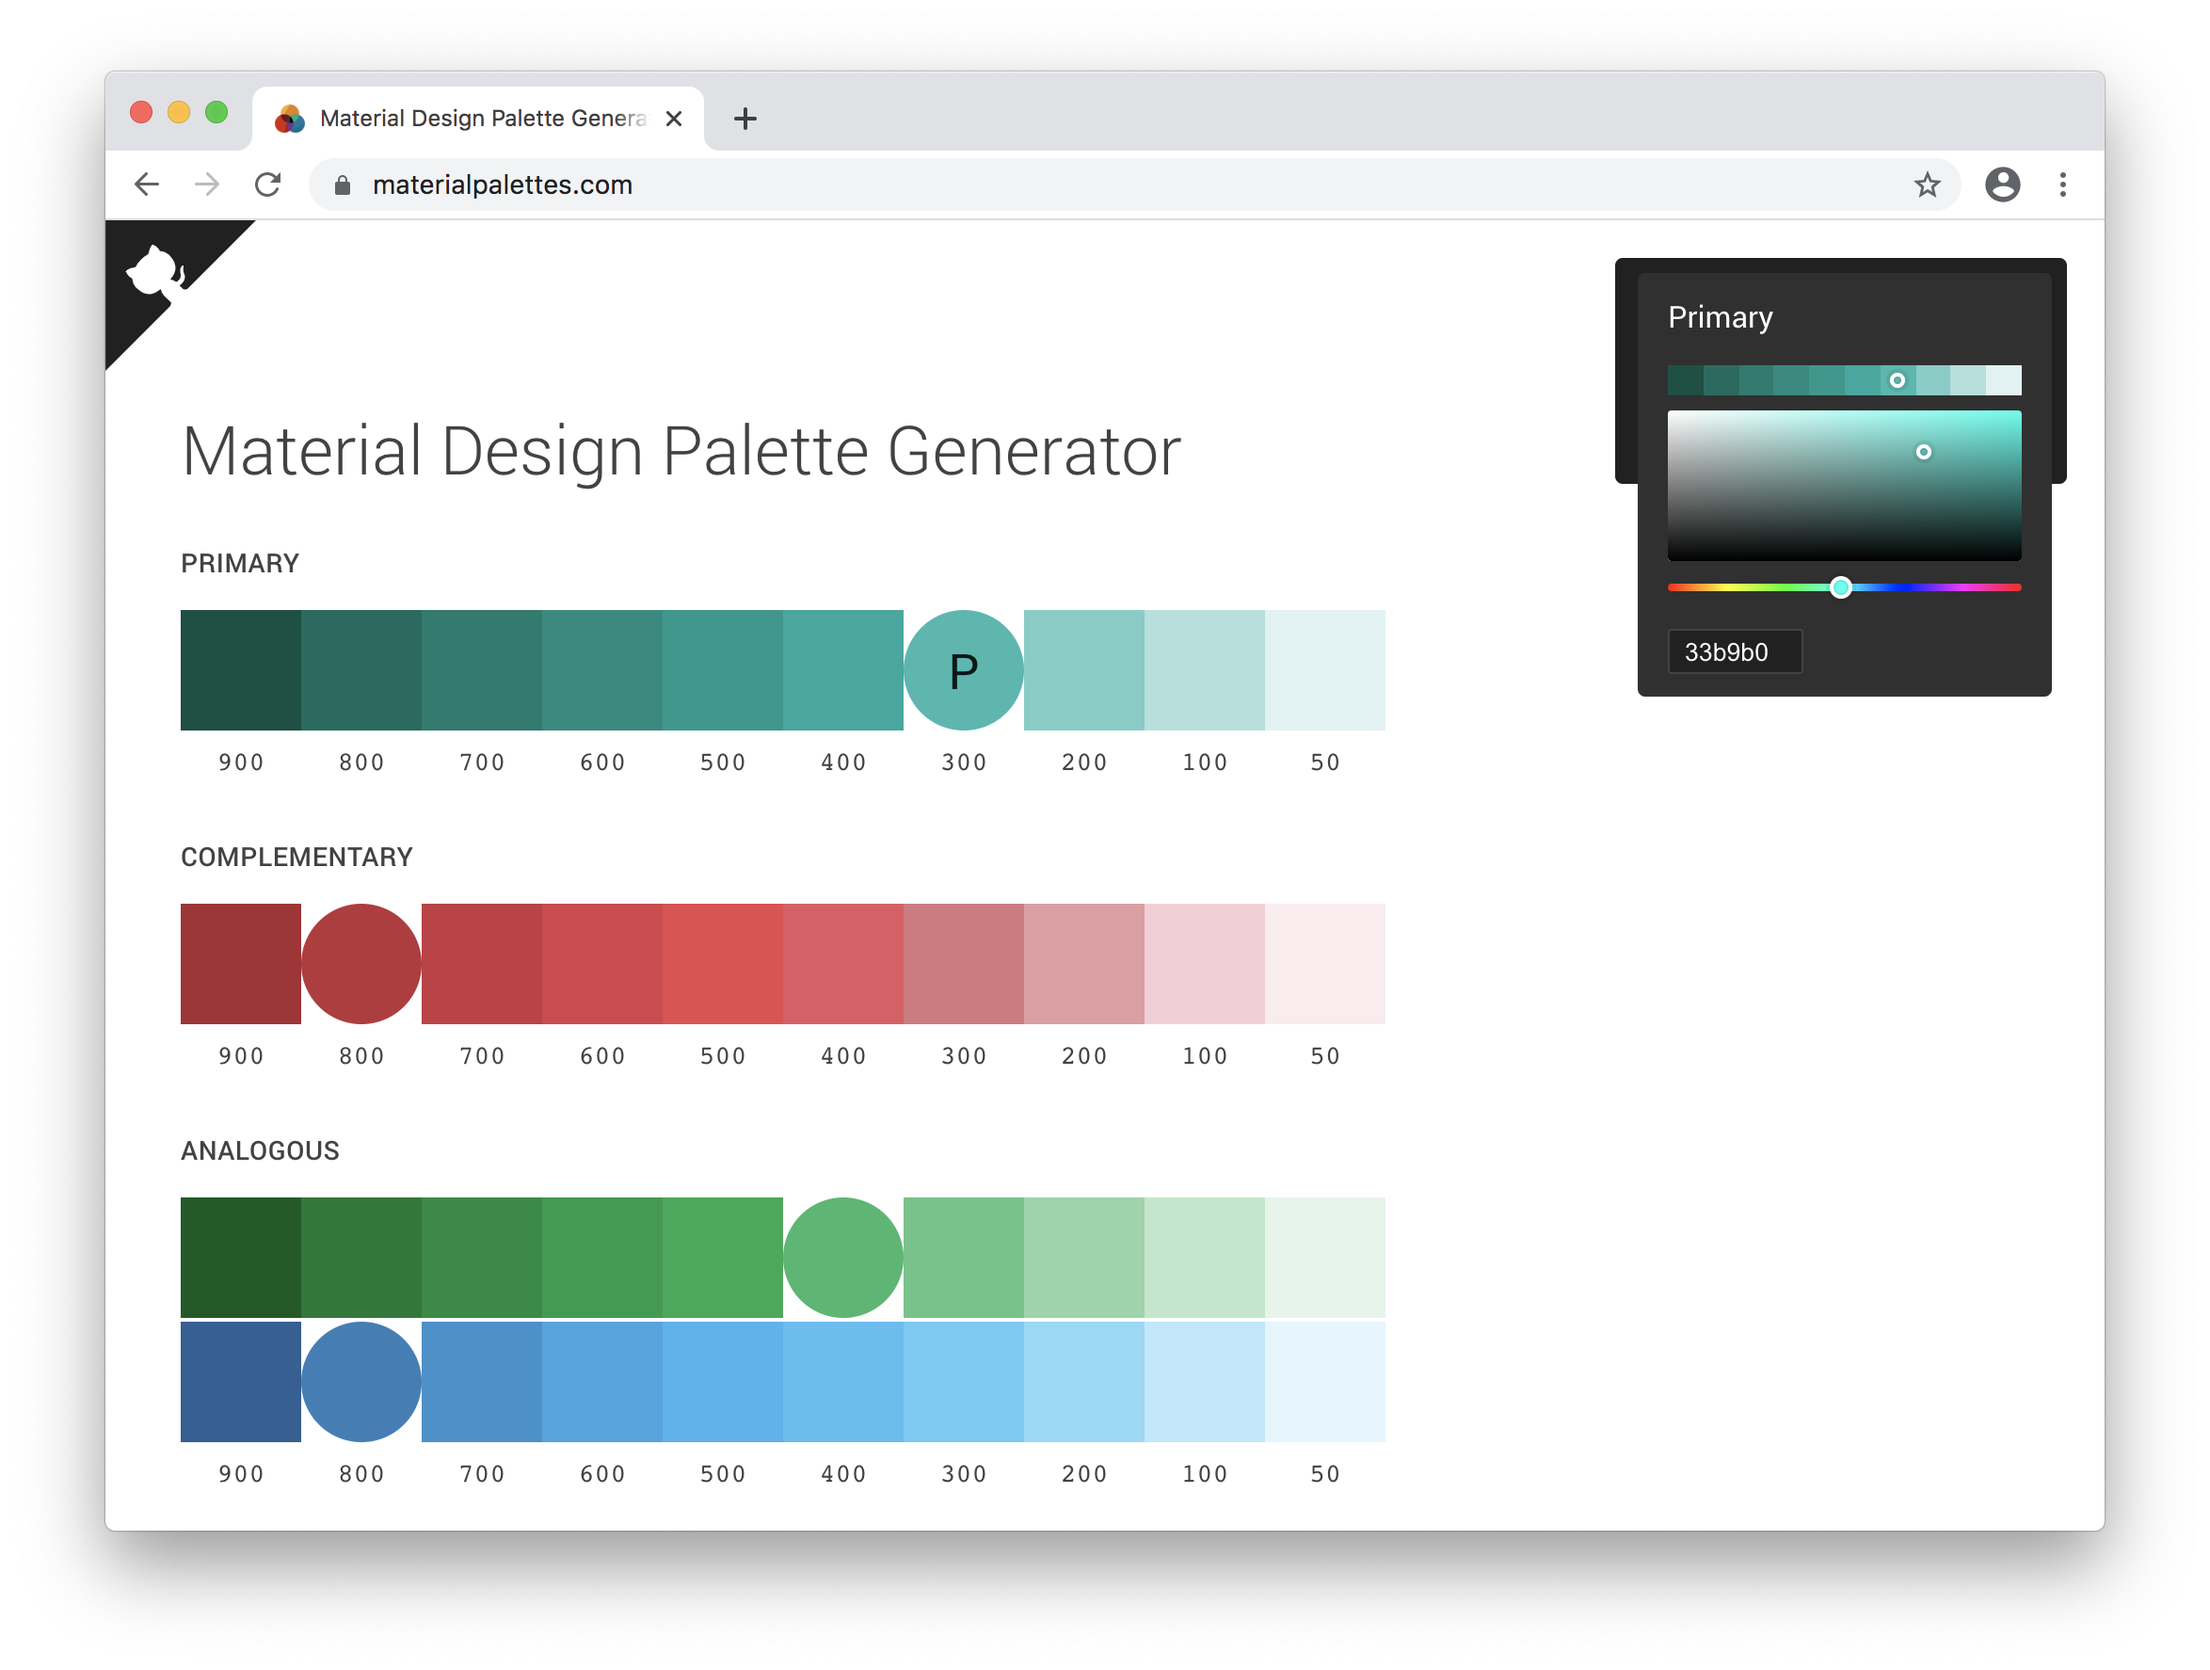
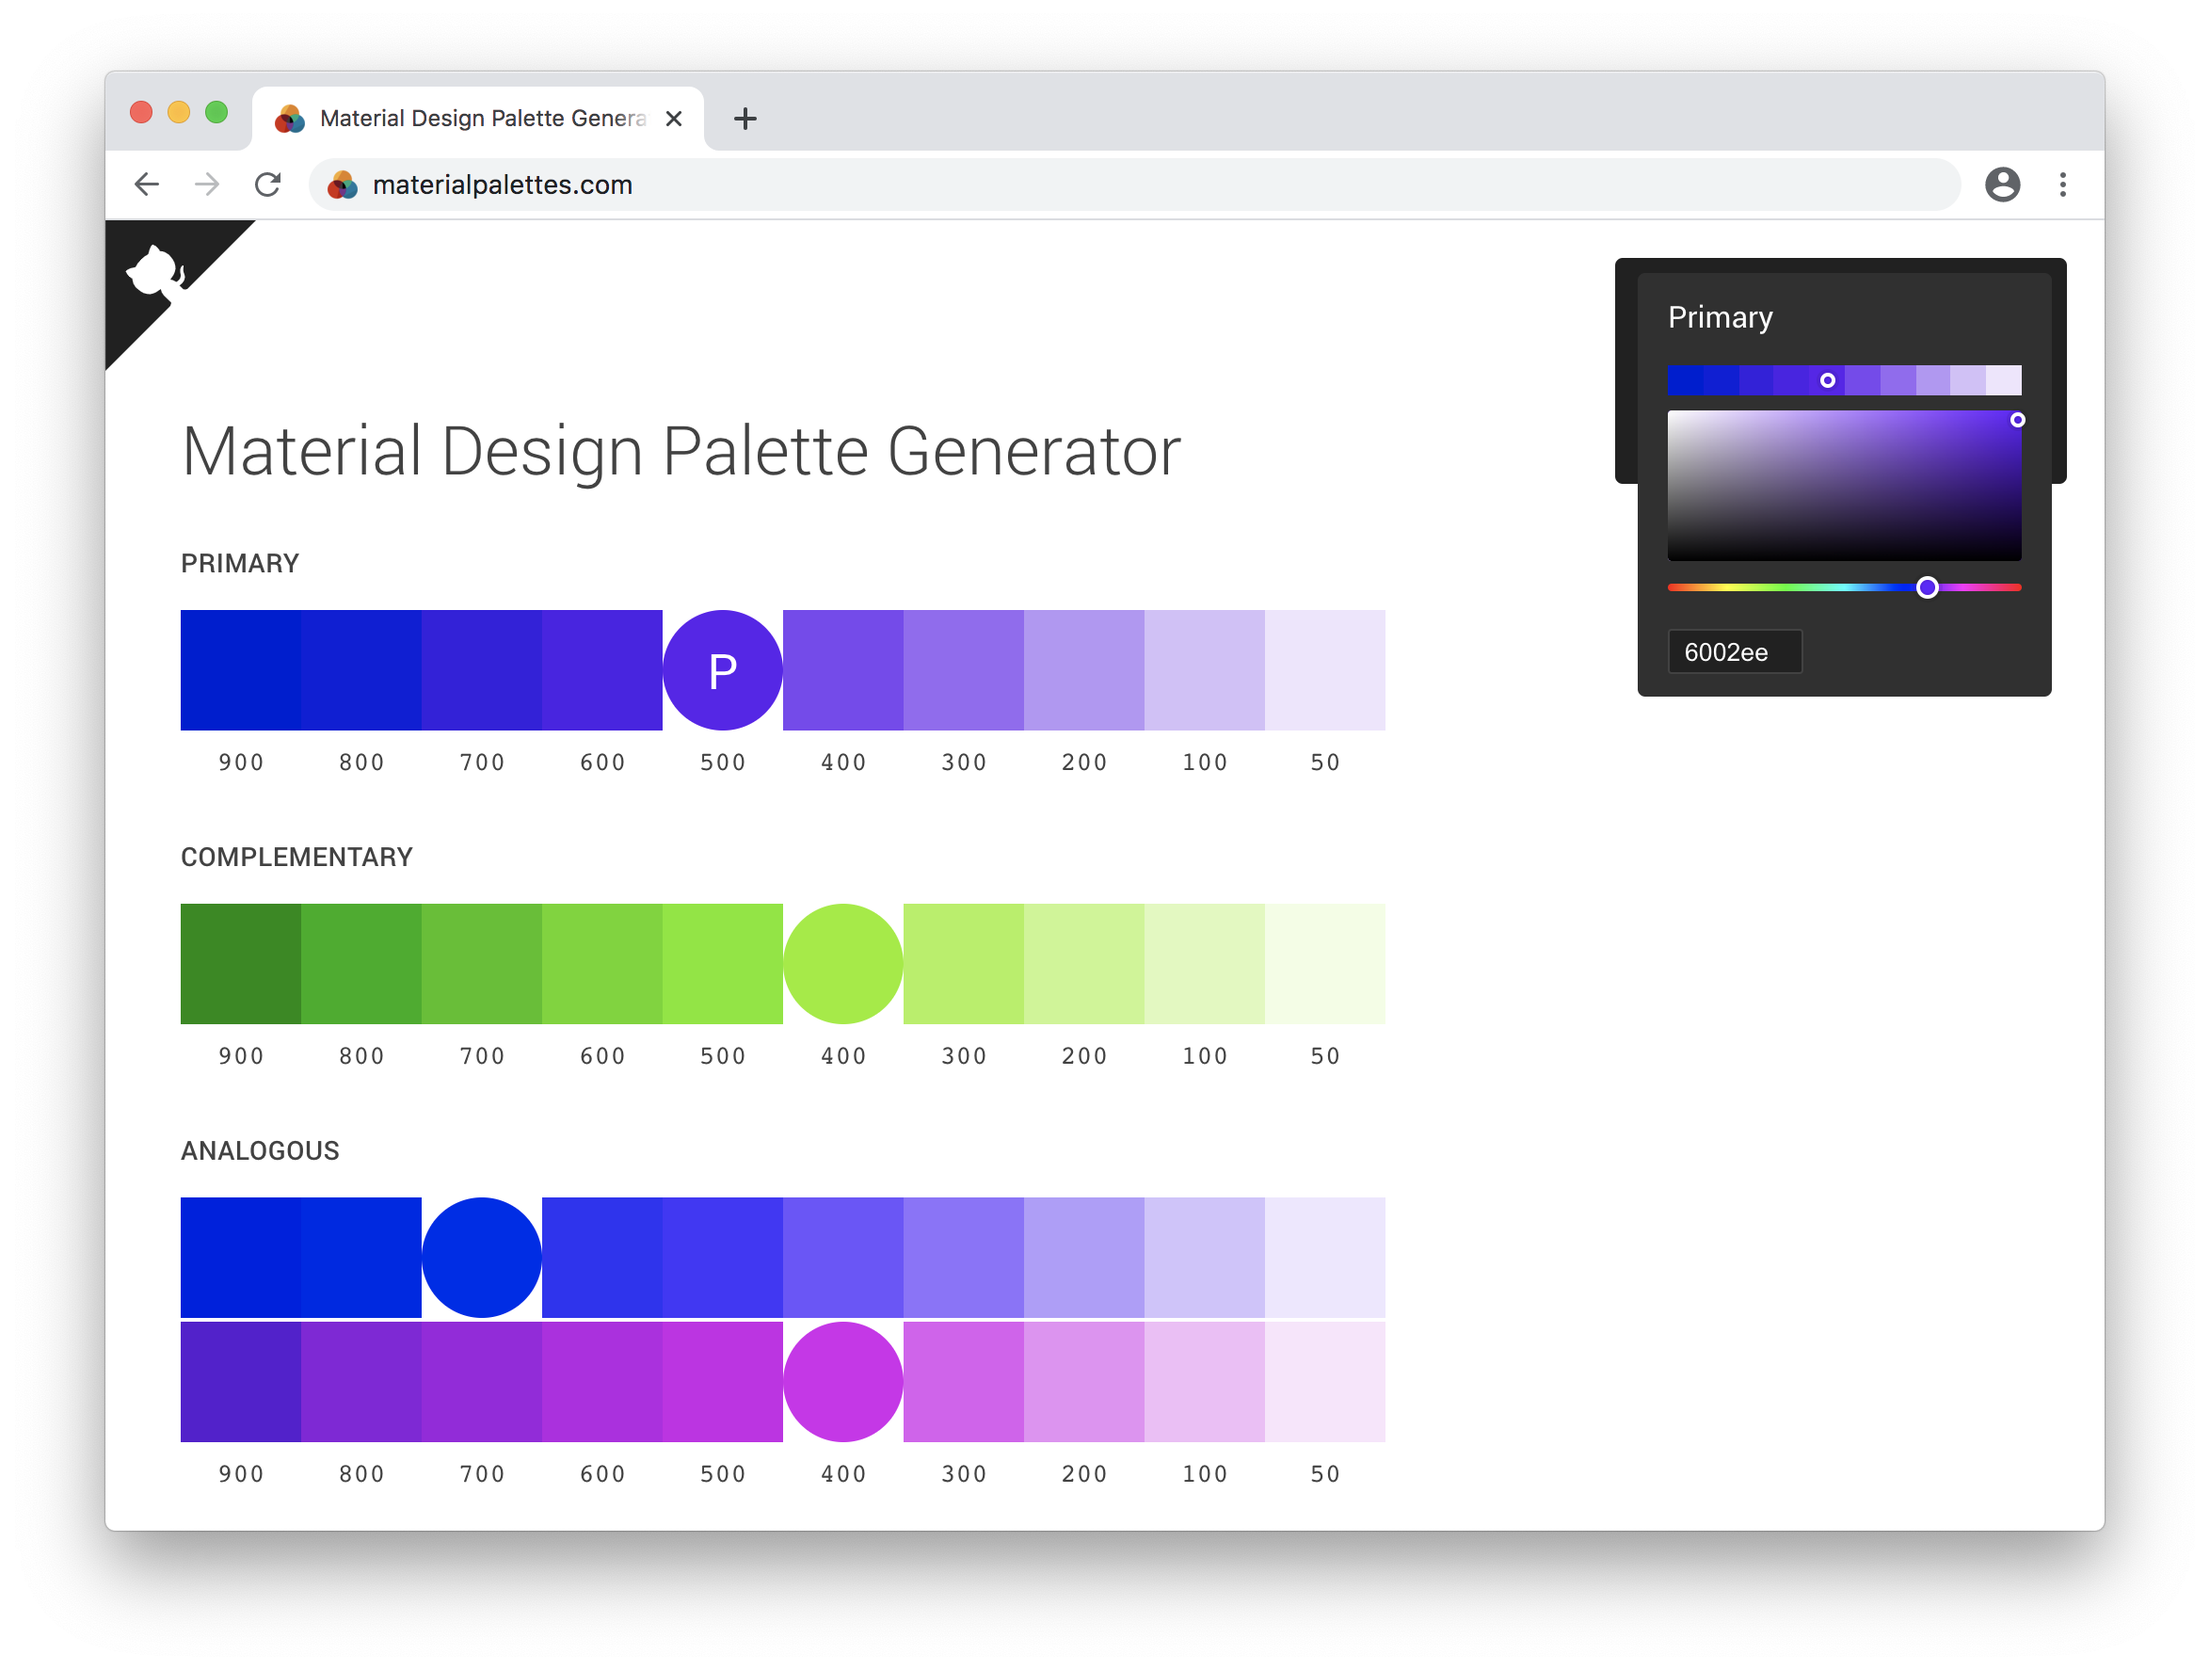
changes primary color on page load

diff --git a/js/main.js b/js/main.js
@@ -187,7 +187,7 @@ var pc=function(a){return{dispatch:function(b){b=w(Array.isArray(b)?b:[b]);for(v
 function wc(a,b,c){var d={type:"SET_COLOR_HSL_TEXT",hueText:a.hue,saturationText:a.saturation,lightnessText:a.b},e=xc(a.hue),g=xc(a.saturation);a=xc(a.b);return 0<=e&&360>=e&&0<=g&&100>=g&&0<=a&&100>=a?(e=new T(e,g/100,a/100),[c(e,b),d]):[d]}function xc(a){a=a.trim();return a.length?Number(a):NaN};var yc=['\n      <div id="','" class$="','"\n          on-transitionend="','">\n        ',"\n      </div>\n    "];yc.raw=['\n      <div id="','" class$="','"\n          on-transitionend="','">\n        ',"\n      </div>\n    "];var zc=function(){};
 function Ac(a){var b="goog_"+ra++,c=zc,d=function(d){var e=d.target;e.id===b&&(a.xb&&a.xb(d),e.classList.contains(a.sb)&&c())};return function(e){var g=$a(function(a){var b=a.W.nextSibling===a.l;e?(c=zc,a.o(e)):b||(b=new Promise(function(a){c=function(){a(e)}}),a.o(b))}),h=Rb(a.ic,[a.Gb||"",!!a.Gb&&!!e],[a.sb,!e]);return L(yc,b,h,d,g)}};var Bc=tb(nb("6202EE"));function Cc(a,b){var c=a.Ja;c=void 0===c?Dc:c;c="EXPAND_COLOR_MENU"===b.type?Object.assign({},c,{P:b.openColorMenu}):"INITIAL_LOAD"===b.type?Object.assign({},c,{P:!0}):c;var d=a.$a;d=void 0===d?Ec:d;d="COPY_TO_CLIPBOARD"===b.type?Object.assign({},d,{ab:b.selectedColor}):d;return{Ja:c,$a:d,colors:Fc(a.colors,b)}}var Dc={P:!1},Ec={ab:""},Gc={primaryColor:new
   // Change default primary color here. Original was white (0,0,1).
-  U(176,0.7243,0.7255),secondaryColor:void 0,s:0,h:void 0};
+  U(264,0.99,0.932),secondaryColor:void 0,s:0,h:void 0};
 function Fc(a,b){a=void 0===a?Gc:a;switch(b.type){case "INITIAL_LOAD":return{primaryColor:Bc,secondaryColor:void 0,s:0,h:void 0};case "SHOW_COLOR_PICKER":return Object.assign({},a,{s:b.isPrimaryColor?1:2,h:Hc(b.isPrimaryColor?a.primaryColor:a.secondaryColor||new U(0,0,1))});case "HIDE_COLOR_PICKER":return Object.assign({},a,{s:0,h:void 0});case "SET_PRIMARY_COLOR":return Object.assign({},a,{primaryColor:b.primaryColor,h:1===a.s?Hc(b.primaryColor):a.h});case "SET_SECONDARY_COLOR":return Object.assign({},
 a,{secondaryColor:b.secondaryColor,h:2===a.s?Hc(b.secondaryColor):a.h});case "REMOVE_SECONDARY_COLOR":return Object.assign({},a,{secondaryColor:void 0,h:2===a.s?void 0:a.h});default:if(void 0!==a.h){a:{var c=a.h;switch(b.type){case "SET_COLOR_HEX":b=Object.assign({},c,{rb:b.hex});break a;case "SET_COLOR_HSL_TEXT":b=Object.assign({},c,{hueText:b.hueText,saturationText:b.saturationText,lightnessText:b.lightnessText});break a}b=c}if(b!==a.h)return Object.assign({},a,{h:b})}return a}}
 function Hc(a){var b=void 0===b?S(a):b;var c=qb(sb(a));return{rb:Q(b),hueText:c.hue,saturationText:c.saturation,lightnessText:c.b,color:a}};function Ic(a,b){return $a(function(c){c.o(a);for(var d=c.W.nextSibling;d&&d!==c.l;){if(d instanceof Element&&!d.classList.contains("mdc-ripple-surface")){d.classList.add("mdc-ripple-surface");var e=new F(d);b&&b(e)}d=d.nextSibling}})};var Jc='\n      <input type="text" id="clipboardcopy" readonly="true">\n      <div class="color-tool" on-click=";">\n        <div class="tool-title">Color palettes</div>\n        ;\n        ;\n        ;\n        ;\n      </div>\n      <div class="mobile-message">\n        <div class="mobile-message__logo-container">\n          <div class="mobile-message__logo"></div>\n        </div>\n        <div class="mobile-message__title">\n          <i class="mobile-message__title-icon material-icons">info_outline</i>\n          <span class="mobile-message__title-message">\n            Demos only available at larger screen size\n          </span>\n        </div>\n      </div>\n    '.split(";");
